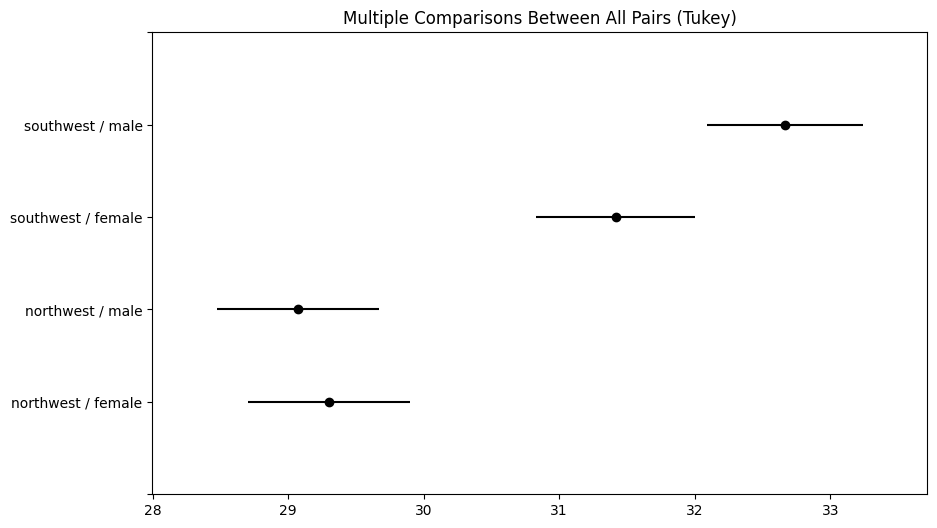
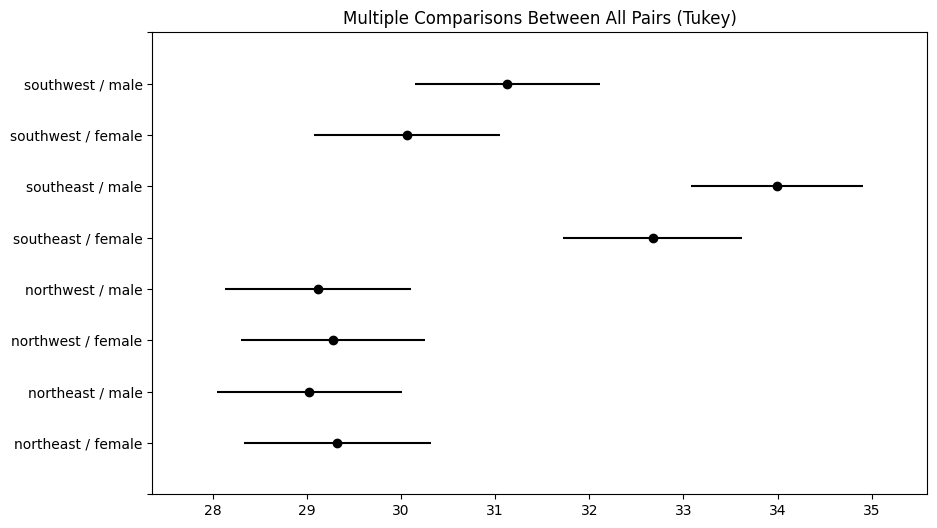
repair 2 and 3

diff --git a/pr4/pr4_2/main.py b/pr4/pr4_2/main.py
@@ -5,42 +5,45 @@ import seaborn as sns
 from sklearn.linear_model import LinearRegression
 from sklearn.metrics import mean_squared_error
 
-#
-# def mserror(x, w1, w0, y):
-#     ypred = w1 * x[:, 0] + w0
-#     return np.sum((y - ypred) ** 2) / len(ypred)
-#
-#
-# def gr_mserror(x, w1, w0, y):
-#     ypred = w1 * x[:, 0] + w0
-#     return np.array([2 / len(x) * np.sum((y - ypred)) * (-1)])
-#
-#
-# def regression(x, y):
-#     eps = 0.0001
-#     w1 = 0
-#     w0 = 0
-#
-#     learning_rate = 0.001
-#     next_w1 = w1
-#     next_w0 = w0
-#
-#     n = 100000
-#
-#     for i in range(n):
-#         cur_w1 = next_w1
-#         cur_w0 = next_w0
-#         err = gr_mserror(x, cur_w1, cur_w0, y)
-#         next_w0 = cur_w0 - learning_rate * err[0]
-#         next_w1 = cur_w1 - learning_rate * err[0]
-#         print(f"Итерация {i}:")
-#         print(f"Текущая точка {cur_w1, cur_w0}| Следущая точка {next_w1, next_w0}")
-#         print(f"MSE = {mserror(x, cur_w1, cur_w0, y)}")
-#         print("--------------------------------------------------------------------")
-#
-#         if (abs(cur_w1 - next_w1) <= eps) and (abs(cur_w0 - next_w0) <= eps):
-#             break
-#
+
+def mserror(x, w1, w0, y):
+    ypred = w1 * x[:, 0] + w0
+    return np.sum((y - ypred) ** 2) / len(ypred)
+
+
+def gr_mserror(x, w1, w0, y):
+    ypred = w1 * x[:, 0] + w0
+    return np.array([
+        2 / len(x) * np.sum((y - ypred)) * (-1),
+        2 / len(x) * np.sum((y - ypred) * (-x[:, 0]))
+    ])
+
+
+def regression(x, y):
+    eps = 0.0001
+    w1 = 0
+    w0 = 0
+
+    learning_rate = 0.001
+    next_w1 = w1
+    next_w0 = w0
+
+    n = 100000
+
+    for i in range(n):
+        cur_w1 = next_w1
+        cur_w0 = next_w0
+        err = gr_mserror(x, cur_w1, cur_w0, y)
+        next_w0 = cur_w0 - learning_rate * err[0]
+        next_w1 = cur_w1 - learning_rate * err[0]
+        print(f"Итерация {i}:")
+        print(f"Текущая точка {cur_w1, cur_w0}| Следущая точка {next_w1, next_w0}")
+        print(f"MSE = {mserror(x, cur_w1, cur_w0, y)}")
+        print("--------------------------------------------------------------------")
+
+        if (abs(cur_w1 - next_w1) <= eps) and (abs(cur_w0 - next_w0) <= eps):
+            return next_w0, next_w1, mserror(x, cur_w1, cur_w0, y)
+
 
 if __name__ == '__main__':
     data = pd.read_csv("../smartphones.csv", sep=",")
@@ -60,6 +63,10 @@ if __name__ == '__main__':
     y = data["price"]
     x = np.array(x, type(float))
     y = np.array(y, type(float))
+
+    w0, w1, mse = regression(x, y)
+    print(f"Угол наклона = {w1}\nКоэффициент сдвига = {w0}\nMSE={mse}")
+
     lin_reg.fit(x, y)
     print(f"Угол наклона = {lin_reg.coef_[0]}\nКоэффициент сдвига = {lin_reg.intercept_}")
 

diff --git a/pr4/pr4_3/main.py b/pr4/pr4_3/main.py
@@ -11,34 +11,44 @@ if __name__ == '__main__':
     print(data.info())
 
     print(data["region"].unique())
-    data.replace(["southeast", "northeast"], ["southwest", "northwest"], inplace=True)
-    print(data["region"].unique())
 
     southwest = data[data["region"] == "southwest"]["bmi"]
     northwest = data[data["region"] == "northwest"]["bmi"]
-    print("Scipy library: \n\t" + str(stats.f_oneway(southwest,
-                                                     northwest)))  # pvalue = 2,91*10^-18 < 0,05 => присутствует различие; фактор региона оказывает влияение на ИМТ
+    southeast = data[data["region"] == "southeast"]["bmi"]
+    northeast = data[data["region"] == "northeast"]["bmi"]
+    print("Scipy library: \n\t" + str(stats.f_oneway(southwest, northwest, southeast, northeast)))  # pvalue = 2,91*10^-18 < 0,05 => присутствует различие; фактор региона оказывает влияение на ИМТ
 
     print("Statsmodels library:")
     # print(southwest, northwest)
-    fixed_data = data[["region", "bmi"]].replace(["southwest", "northwest"], [1, 2])
+    fixed_data = data[["region", "bmi"]]
     model = ols("bmi ~ region", data=fixed_data).fit()
     anova_res = sm.stats.anova_lm(model, type=2)
     print(anova_res)
 
-    print("southwest-northwest")  # ????????
+    print()
+    print("southwest-northwest")
     print(stats.ttest_ind(southwest, northwest))
+    print("southwest-northeast")
+    print(stats.ttest_ind(southwest, northeast))
+    print("southeast-northwest")
+    print(stats.ttest_ind(southeast, northwest))
+    print("southeast-northeast")
+    print(stats.ttest_ind(southeast, northeast))
+    print("southeast-southwest")
+    print(stats.ttest_ind(southeast, southwest))
+    print("northwest-northeast")
+    print(stats.ttest_ind(northwest, northeast))
+    print()
 
-    tukey = pairwise_tukeyhsd(endog=data["age"], groups=data["region"], alpha=0.05)
+    tukey = pairwise_tukeyhsd(endog=data["bmi"], groups=data["region"], alpha=0.05)
     tukey.plot_simultaneous()
     # plt.vlines(x=49.57, ymin=-0.5, ymax=4.5, color="red")
     print(tukey.summary())
     plt.show()  # Интервалы перекрываются => различия не существенные
 
-    new_data = fixed_data = data[["region", "bmi", "sex"]].replace(["southwest", "northwest", "male", "female"],
-                                                                   [1, 2, 1, 2])
-    model2 = ols("bmi ~ region + sex", data=new_data).fit()
-    anova2_res = sm.stats.anova_lm(model2)
+    new_data = fixed_data = data[["region", "bmi", "sex"]]
+    model2 = ols("bmi ~ region + sex + region:sex", data=new_data).fit()
+    anova2_res = sm.stats.anova_lm(model2, typ=2)
     print(anova2_res)
 
     plt.figure()
